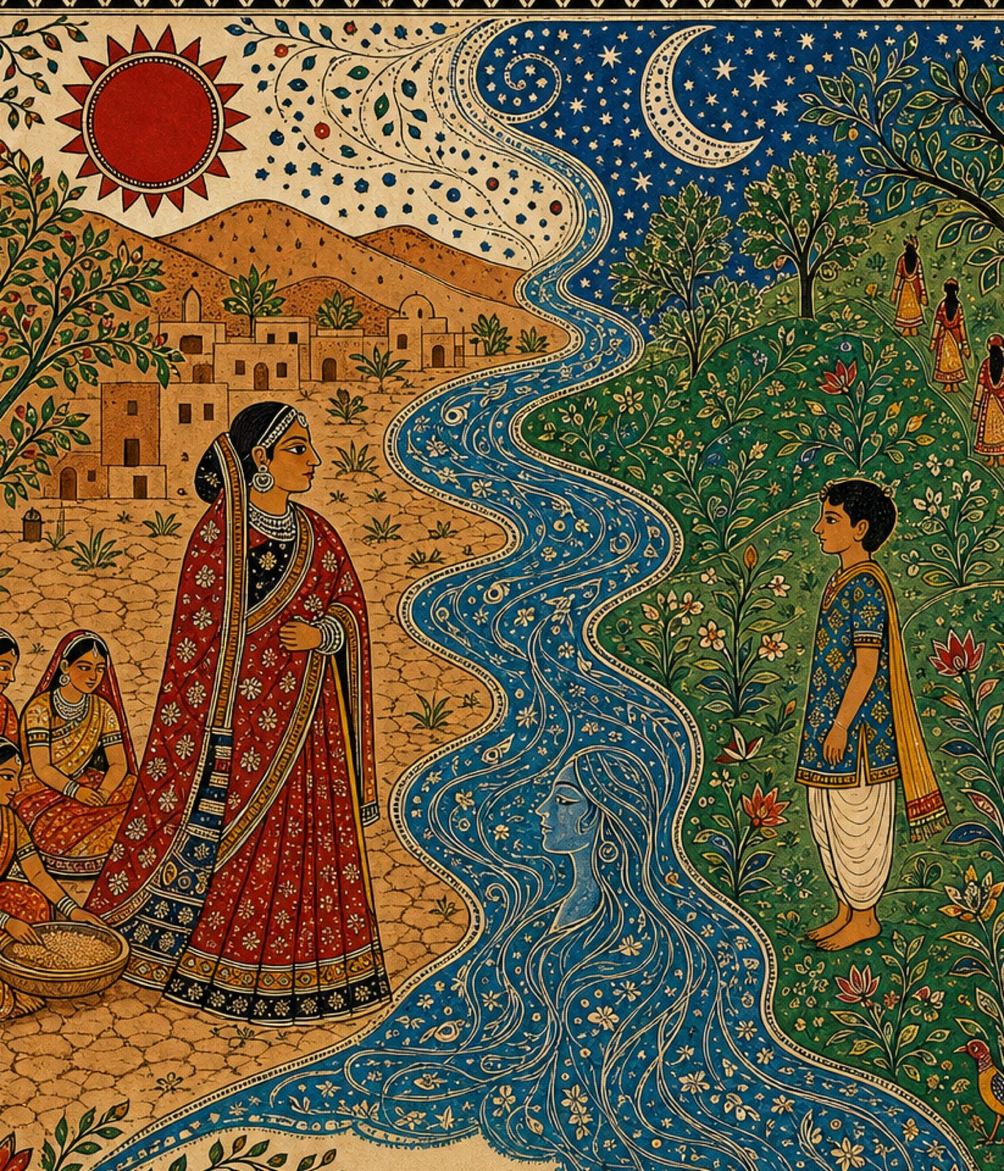
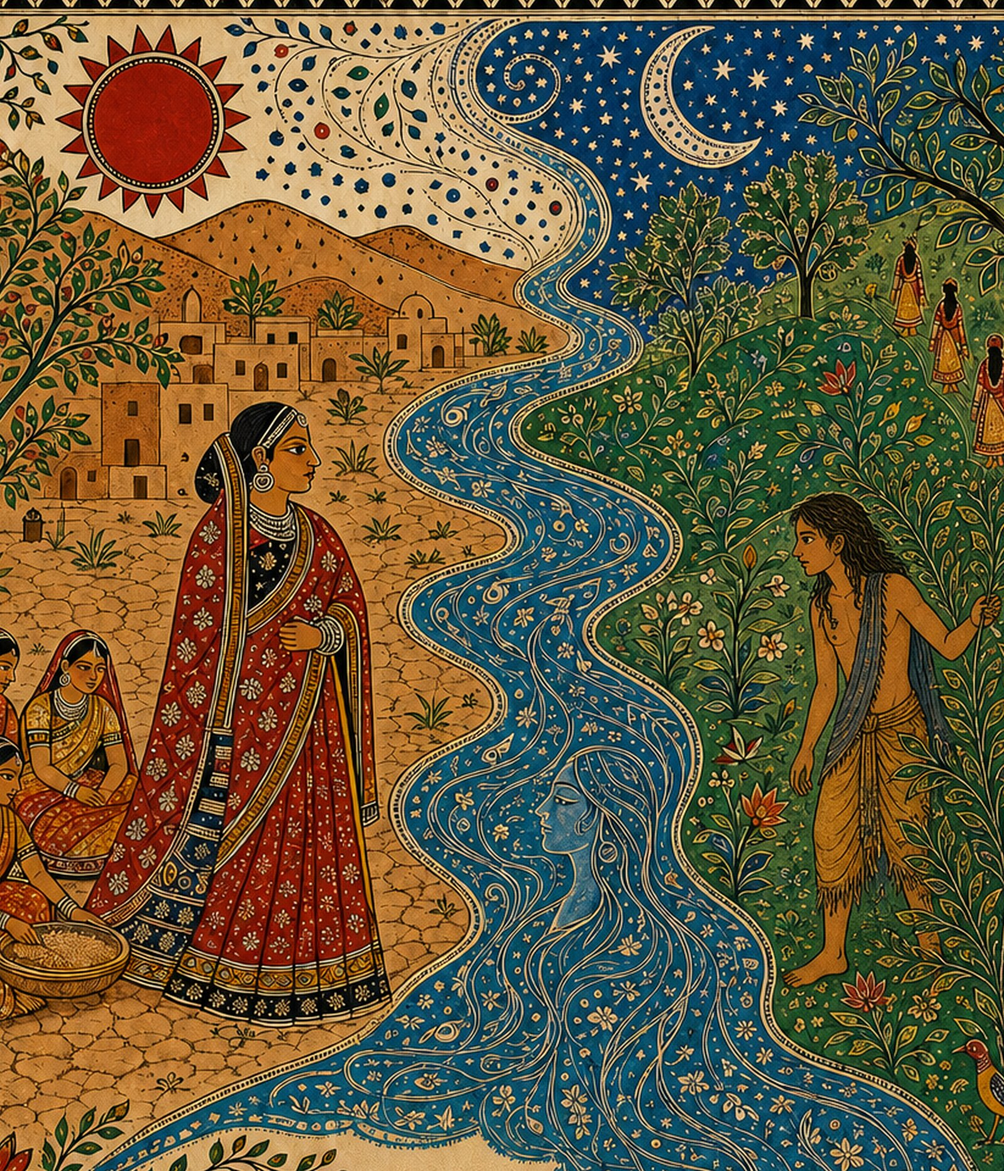
Sangam: publish the confirmed running time, 60 minutes plus an interval
Swapnil confirmed 2026-08-27 what had been an open gap. Every surface that
previously said "unconfirmed" or carried no end time now agrees:

- EN page gains a "Running time — 60 minutes plus an interval" fact row;
  NL gains "Speelduur — 60 minuten plus een pauze".
- JSON-LD gains endDate on the event and on both subEvents (20:45 and 16:15).
- sangam.ics gains DTEND on both VEVENTs and states the running time in each
  description.

End times are start + 75 minutes. That is not invented: 20:45 is the end time
already set on the ABC Squarespace draft, and it is consistent with "60 minutes
plus an interval". The interval's own DURATION is still unstated and must never
be published — the publishable phrase is the sentence above and nothing more.

The hero crops are re-exported at the same dimensions.

diff --git a/sangam/nl/index.html b/sangam/nl/index.html
@@ -40,6 +40,7 @@
   "image": "https://performances.shoonyadance.com/sangam/assets/og.jpg",
   "url": "https://performances.shoonyadance.com/sangam/nl/",
   "startDate": "2026-11-07T19:30:00+01:00",
+  "endDate": "2026-11-08T16:15:00+01:00",
   "eventStatus": "https://schema.org/EventScheduled",
   "eventAttendanceMode": "https://schema.org/OfflineEventAttendanceMode",
   "location": {
@@ -74,12 +75,14 @@
       "@type": "Event",
       "name": "SANGAM - voorstelling zaterdagavond",
       "startDate": "2026-11-07T19:30:00+01:00",
+      "endDate": "2026-11-07T20:45:00+01:00",
       "location": { "@type": "Place", "name": "Shoonya Dance Centre" }
     },
     {
       "@type": "Event",
       "name": "SANGAM - matinee zondag",
       "startDate": "2026-11-08T15:00:00+01:00",
+      "endDate": "2026-11-08T16:15:00+01:00",
       "location": { "@type": "Place", "name": "Shoonya Dance Centre" }
     }
   ]
@@ -211,6 +214,7 @@ footer a:hover{color:var(--gold2)}
           <div class="fact"><strong>Wanneer</strong><span>Zaterdag 7 november 2026 om 19.30 uur<br/>Zondag 8 november 2026 om 15.00 uur<br/><a class="ics" href="../sangam.ics" download>Zet in je agenda</a></span></div>
           <div class="fact"><strong>Waar</strong><span>Shoonya Theatre<br/>Shoonya Dance Centre<br/>Stapelplein 41, 9000 Gent</span></div>
           <div class="fact"><strong>Tickets</strong><span>€ 20 vast tarief</span></div>
+          <div class="fact"><strong>Speelduur</strong><span>60 minuten plus een pauze</span></div>
           <div class="fact"><strong>Bereikbaarheid</strong><span>10 minuten wandelen van station Gent-Dampoort<br/>Betalend straatparkeren in de buurt</span></div>
           <div class="fact"><strong>Bar</strong><span>De bar opent 30 minuten voor elke voorstelling. Dat is geen toegang tot de zaal.</span></div>
         </div>

diff --git a/sangam/index.html b/sangam/index.html
@@ -40,6 +40,7 @@
   "image": "https://performances.shoonyadance.com/sangam/assets/og.jpg",
   "url": "https://performances.shoonyadance.com/sangam/",
   "startDate": "2026-11-07T19:30:00+01:00",
+  "endDate": "2026-11-08T16:15:00+01:00",
   "eventStatus": "https://schema.org/EventScheduled",
   "eventAttendanceMode": "https://schema.org/OfflineEventAttendanceMode",
   "location": {
@@ -74,12 +75,14 @@
       "@type": "Event",
       "name": "SANGAM - Saturday evening performance",
       "startDate": "2026-11-07T19:30:00+01:00",
+      "endDate": "2026-11-07T20:45:00+01:00",
       "location": { "@type": "Place", "name": "Shoonya Dance Centre" }
     },
     {
       "@type": "Event",
       "name": "SANGAM - Sunday matinee performance",
       "startDate": "2026-11-08T15:00:00+01:00",
+      "endDate": "2026-11-08T16:15:00+01:00",
       "location": { "@type": "Place", "name": "Shoonya Dance Centre" }
     }
   ]
@@ -212,6 +215,7 @@ footer a:hover{color:var(--gold2)}
           <div class="fact"><strong>Dates</strong><span>Saturday 7 November 2026 at 19:30<br/>Sunday 8 November 2026 at 15:00<br/><a class="ics" href="sangam.ics" download>Add to calendar</a></span></div>
           <div class="fact"><strong>Venue</strong><span>Shoonya Theatre<br/>Shoonya Dance Centre<br/>Stapelplein 41, 9000 Gent</span></div>
           <div class="fact"><strong>Tickets</strong><span>EUR 20 flat rate</span></div>
+          <div class="fact"><strong>Running time</strong><span>60 minutes plus an interval</span></div>
           <div class="fact"><strong>Travel</strong><span>10-minute walk from Gent-Dampoort station<br/>Paid street parking nearby</span></div>
           <div class="fact"><strong>Bar</strong><span>The bar opens 30 minutes before each performance. This is not entry to the auditorium.</span></div>
         </div>
